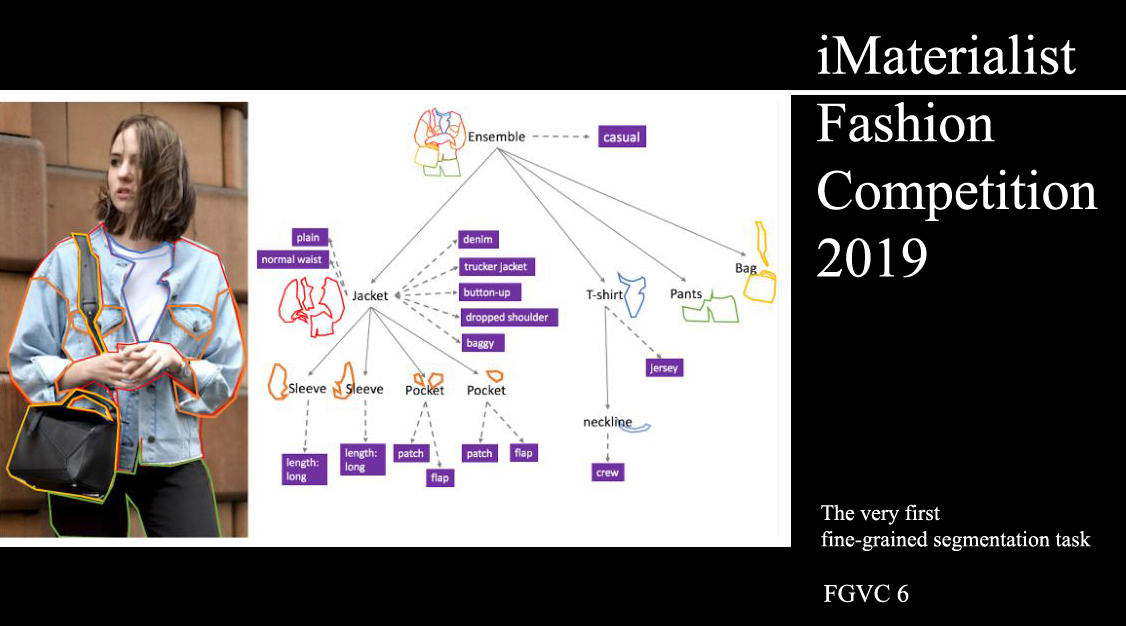
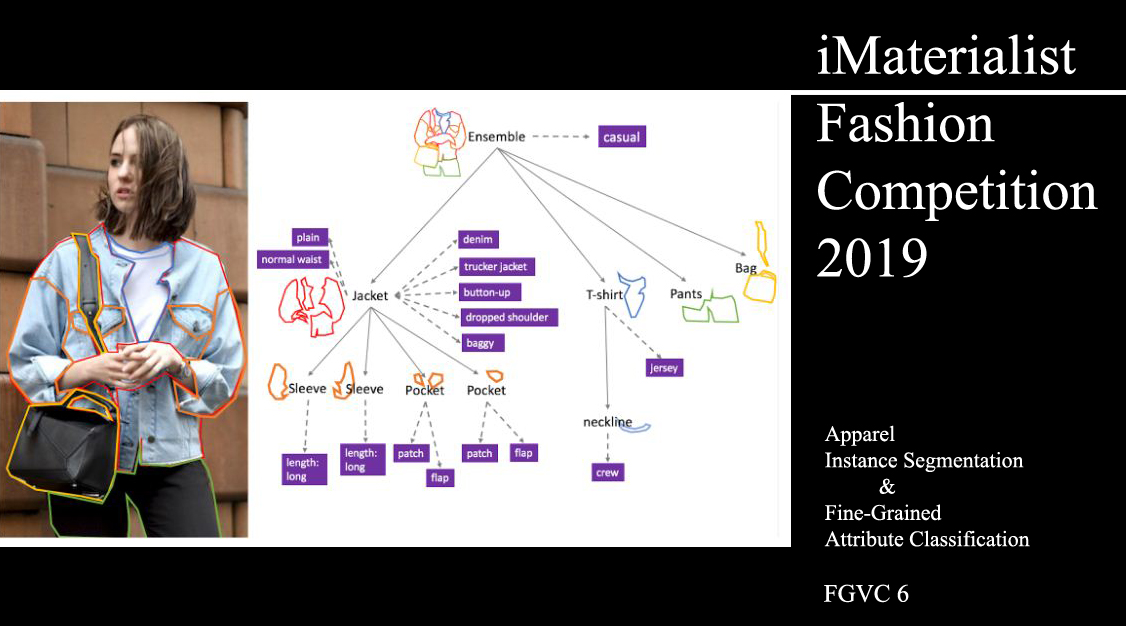
updated comp differences

Changed region(s): [[0.7149, 0.6677, 0.9636, 0.8802]]

diff --git a/README.md b/README.md
@@ -33,7 +33,7 @@ Visual analysis of clothing is a topic that has received increasing attention in
 
 We present a new clothing dataset with the goal of introducing a novel fine-grained segmentation task by joining forces between the fashion and computer vision communities. The proposed task unifies both categorization and segmentation of rich and complete apparel attributes, an important step toward real-world applications. While early work in computer vision addressed related clothing recognition tasks, these are not designed with fashion insiders’ needs in mind, possibly due to the research gap in fashion design and computer vision. To address this, we first propose a fashion taxonomy built by fashion experts, informed by product description from the internet. To capture the complex structure of fashion objects and ambiguity in descriptions obtained from crawling the web, our standardized taxonomy contains 48 apparel objects (28 main apparel items and 20 apparel parts), and 349 related fine-grained attributes. Secondly, a total of 50K clothing images in daily-life, celebrity events, and online shopping are labeled by both domain experts and crowd workers for fine-grained segmentation. 
 
-In this competition, FGVC workshop organizers with Google challenge you to develop algorithms that will help with an important step towards automatic product detection – to accurately assign segmentations and attribute labels for fashion images. Individuals/Teams with top submissions will be invited to present their work live at the FGVC6 workshop.
+In this competition, we challenge you to develop algorithms that will help with an important step towards automatic product detection – to accurately assign segmentations and attribute labels for fashion images. Individuals/Teams with top submissions will be invited to present their work live at the FGVC6 workshop.
 
 ![example](assets/example.png)
 
@@ -41,4 +41,7 @@ For more information on the Evaluation Metric, Data / Submission Format, Rules a
 
 ## Differences from iMat Fashion 2018
 
-The 2019 dataset introduced a novel task that jointly learning object segmentation with fine-grained attributes classification. It also contains a taxonomy with total 397 apparel categories and attributes. For more details on iMat Fashion 2018, please see [this page](https://www.kaggle.com/c/imaterialist-challenge-fashion-2018)
+Whereas iMat-Fashion-2018 covered fine-grained attributes classification, this year our competition introduces a novel task, which is to jointly learn apparel instance segmentation with fine-grained attributes classification. Our 2019 dataset also propose a fashion taxonomy built by fashion experts, with total 397 apparel categories and attributes. 
+
+For more details on iMat Fashion 2018, please see [this page](https://www.kaggle.com/c/imaterialist-challenge-fashion-2018).
+
